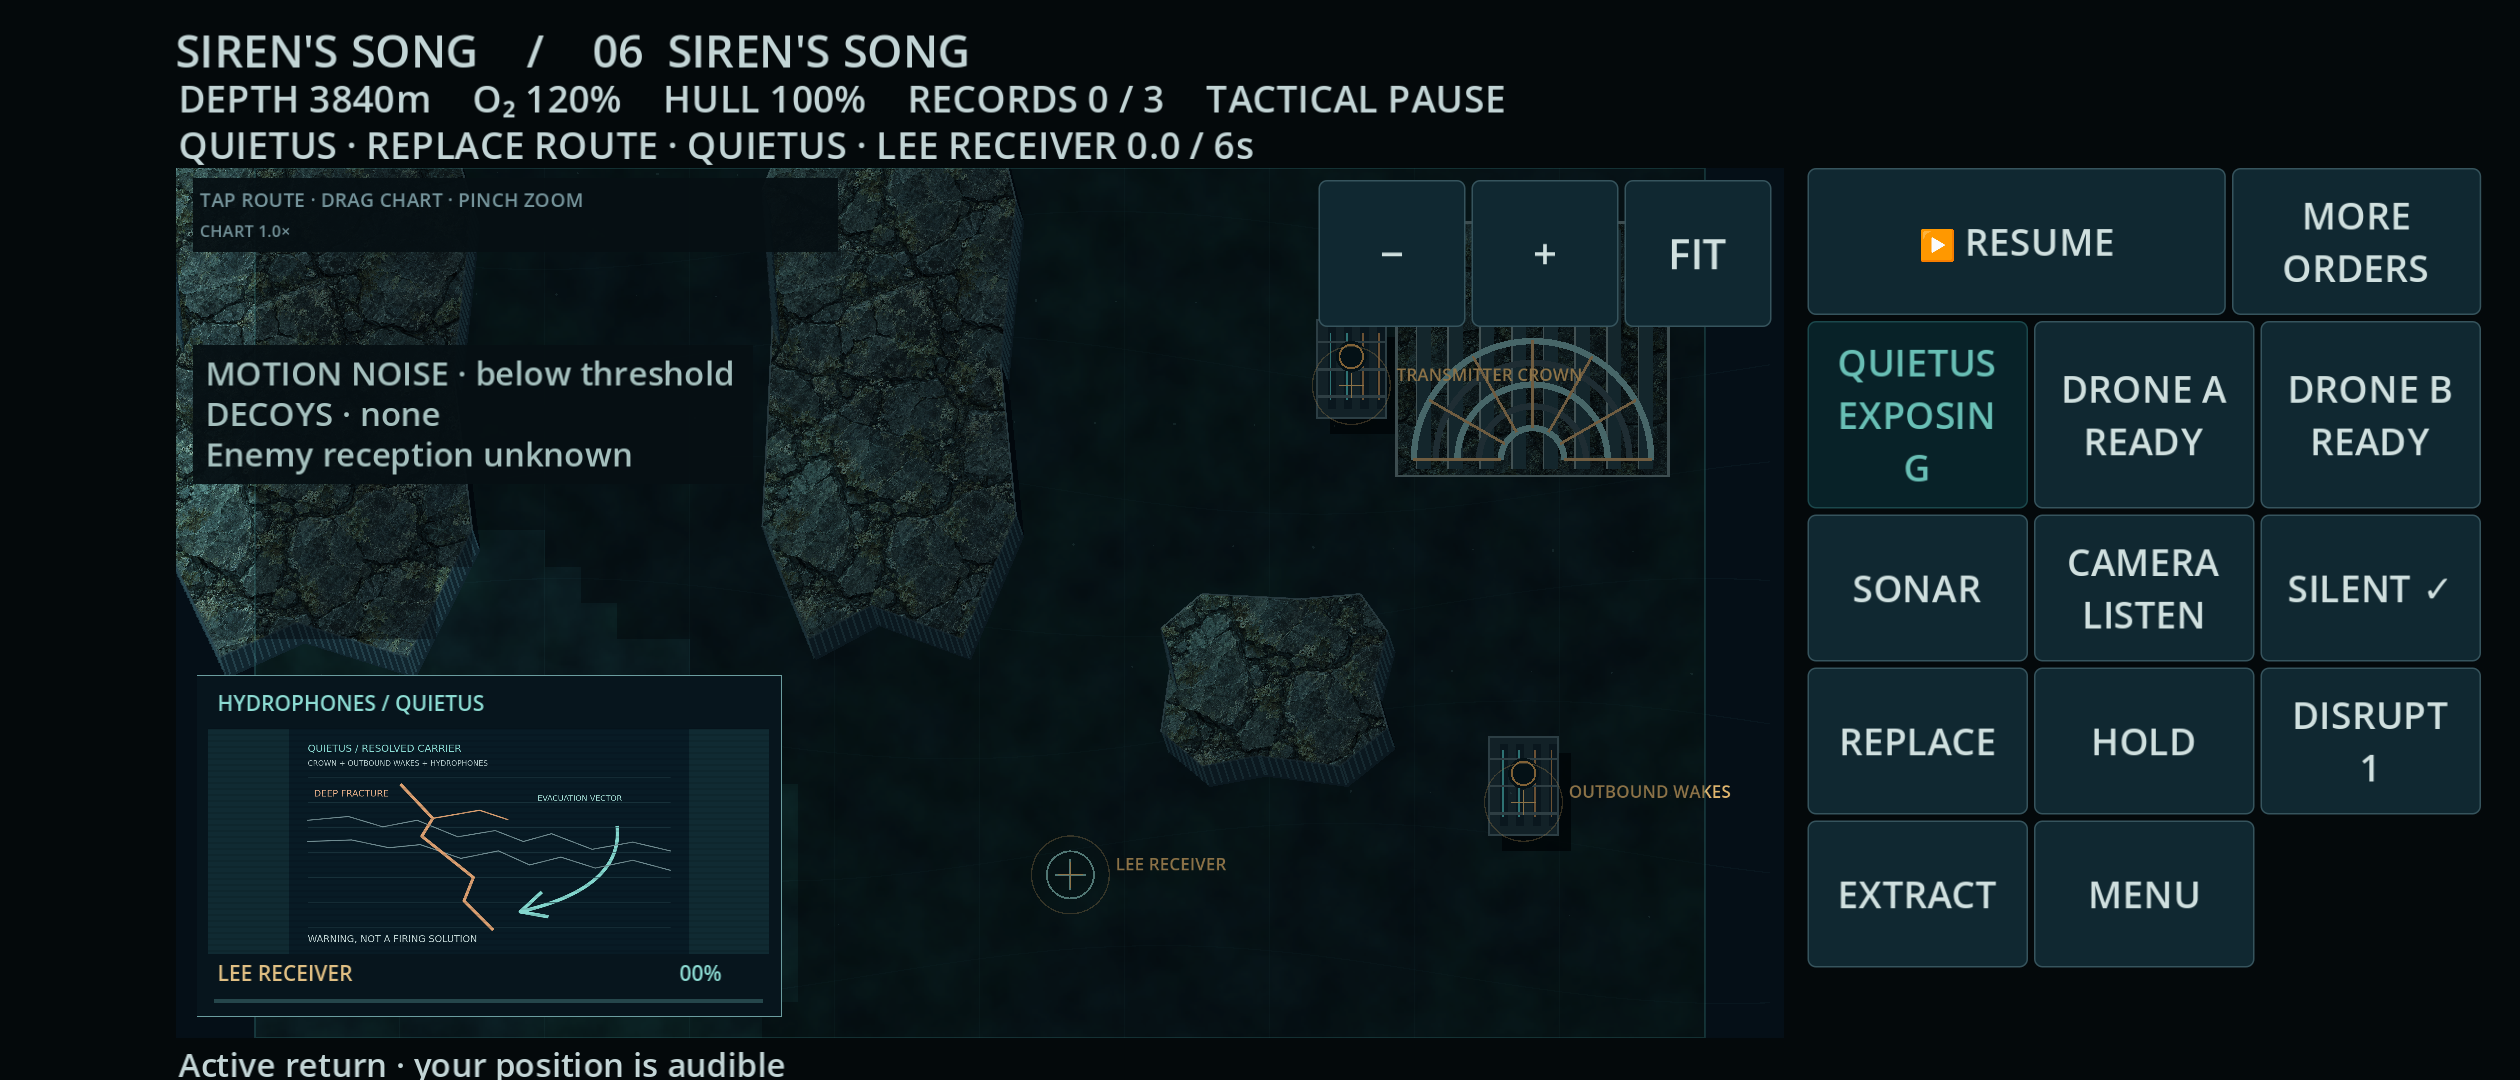
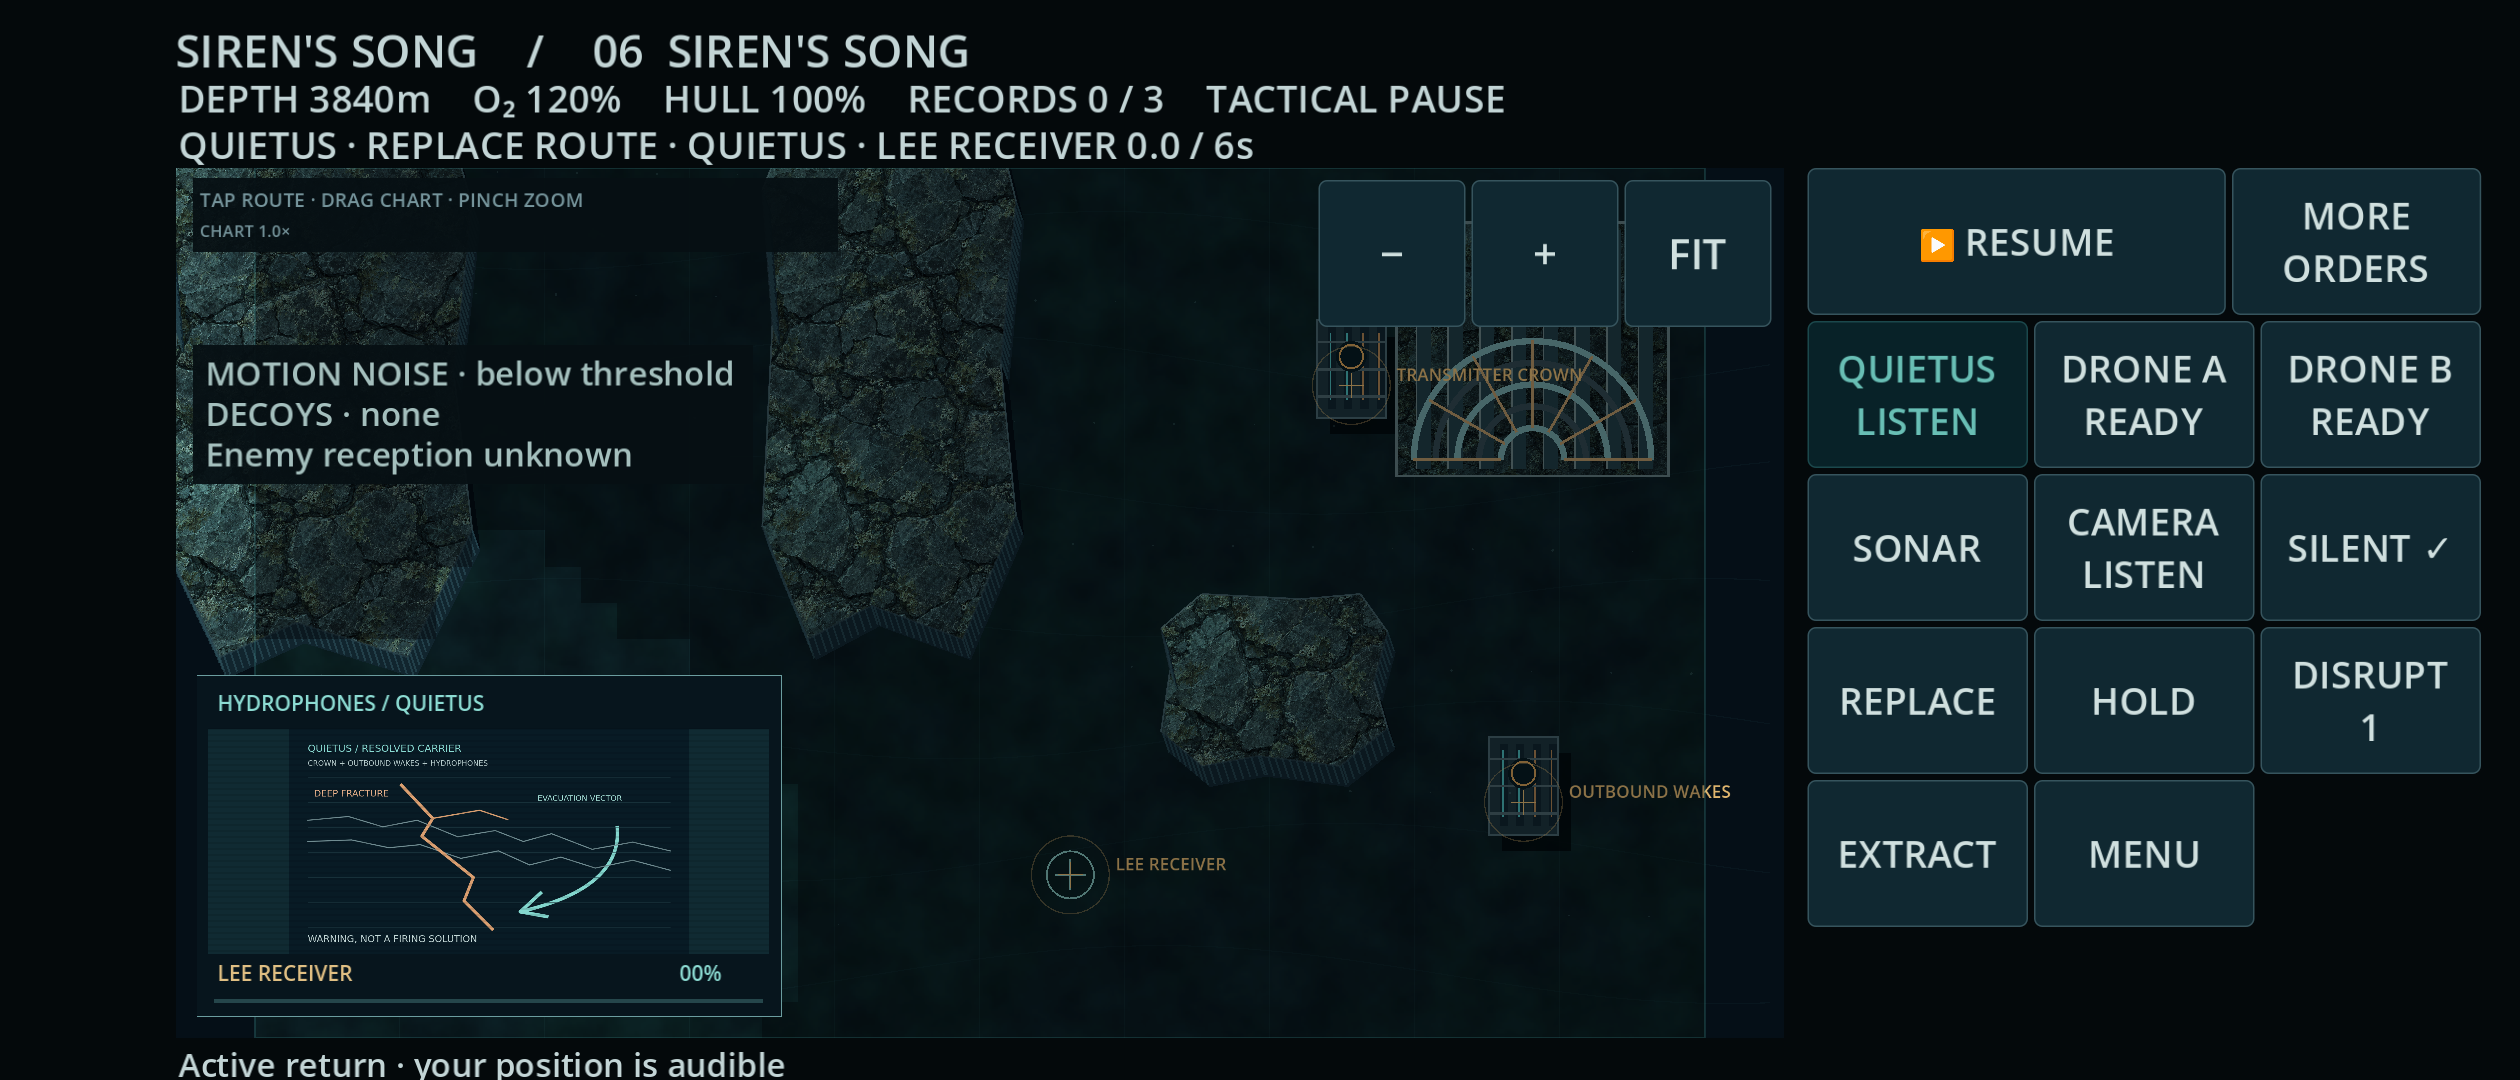
Keep acquisition task labels whole at cover width
Show CAMERA, LISTEN, SAMPLE or LINK from the known active target kind. Simulation and diagnostics remain unchanged. Preserve fonts and row/gesture safeguards.

Focused250/0, affected Blackwater/finale UI15/0 and refreshed cover render36/0; retained intentional label assertion REDs. Same feature and sole root reviewer.

Changed region(s): [[0.7119, 0.3056, 0.9905, 0.5806], [0.7119, 0.6111, 0.9905, 0.9167]]

diff --git a/docs/validation/production/order-row-layout/README.md b/docs/validation/production/order-row-layout/README.md
@@ -1,6 +1,6 @@
 # Order rows respect their labels
 
[2 lines of base64/hex data omitted]
 
 Fixed planning used 48px rows although Godot actually required 64px for MORE/BACK ORDERS, 56px for unit labels and 60px for two-line tools at desktop 1280×720/95dpi. Rows now use actual Button minima at their assigned widths/fonts. Both pages reserve the same order-row height. A coalesced minimum-size notification checks whether row heights changed before relayout. Stable refresh preserves active chart drags without repeated layout reports; real reflow cancels a drag only if chart bounds change. Direct window/layout calls keep their previous cancellation behavior.
 
@@ -15,6 +15,8 @@ Run with isolated userdata: `TOOLCHAIN_CACHE=/workspace/Siren-s-Song-gauntlet/wo
 | Inner primary | [normal](baseline/inner.png) | [same normal geometry](challenger/inner.png) |
 | Cover EXPOSING fixture | [unit spills into SONAR](baseline/cover-exposing.png) | [row contains status](challenger/cover-exposing.png) |
 
-Actual desktop pixels are inspected: unchanged type, separated actions, full controls, unchanged chart rectangle. Normal cover/inner row geometry stays unchanged. The cover EXPOSING fixture explicitly sets the paused unit task to inspect real three-line text; it does not claim legitimate receiver reception at that pose. The word still wraps as EXPOSIN/G, now contained; no clipping or smaller type hides it. Extra control height is the cost: narrow desktop layouts give up 48 logical pixels of chart height; wide desktop uses previously empty side-panel space. Original v7 has no production order-row layout; this preserves the accepted touch controls and all simulation/command/save behavior. No new assets or UI system.
+Actual desktop pixels are inspected: unchanged type, separated actions, full controls, unchanged chart rectangle. Normal cover/inner row geometry stays unchanged. The cover EXPOSING fixture explicitly sets the paused unit task to inspect real three-line text; it does not claim legitimate receiver reception at that pose. The initial row-only candidate aceb0f0 still split EXPOSIN/G; the final correction uses LISTEN here and restores the usual two-line height. No clipping or smaller type hides text. Extra control height is the cost: narrow desktop layouts give up 48 logical pixels of chart height; wide desktop uses previously empty side-panel space. Original v7 has no production order-row layout; this preserves the accepted touch controls and all simulation/command/save behavior. No new assets or UI system.
 
-Next opportunity: assess the long EXPOSING task wording at cover width, or advance higher-value mission/sensory work; do not treat this bounded layout checkpoint as overall program completion.
+Review correction: active optical capture displays CAMERA, receiver acquisition LISTEN, Blackwater exchange SAMPLE, and archive uplink LINK, from the known active target kind. Simulation/diagnostic source and values are unchanged. Explicit valid target fixtures replace the earlier default -1 receiver fixture. [Task-label RED](task-label-red.log) 250/20 → [GREEN](task-label-green.log) 250/0, exit 0; whole-word metric checks cover both native densities. [Affected cover frame](challenger/cover-exposing.png) is refreshed, with [render 36/0](task-render-green.log); existing normal-state views remain valid. The old Blackwater LISTEN assertion intentionally fails in [retained log](legacy-task-assert-red.log), then is updated to SAMPLE; [15/0](task-ui-green.log) affected Blackwater/finale checks include genuine accepted legacy archives. Rerun with `--script res://tests/order_task_ui_scenarios.gd`.
+
+Next opportunity: advance higher-value mission/sensory work; do not treat this bounded layout checkpoint as overall program completion.
